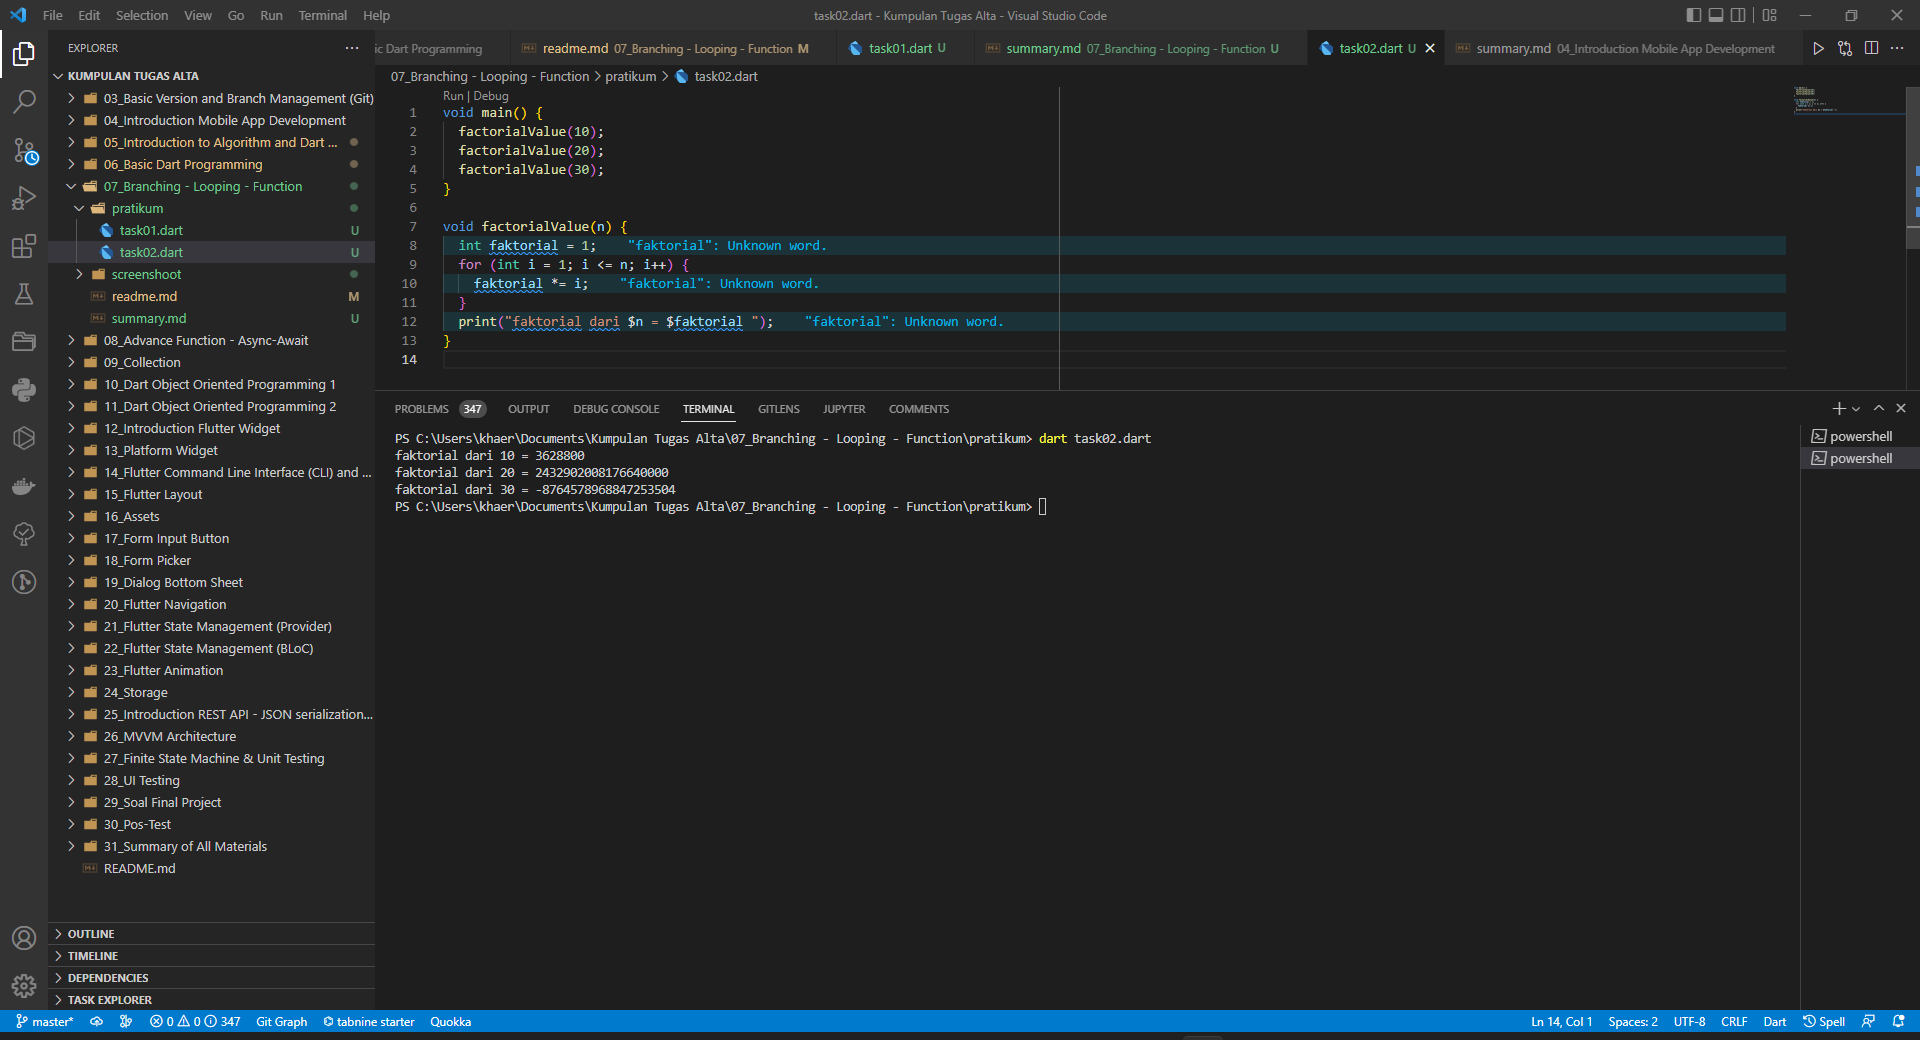
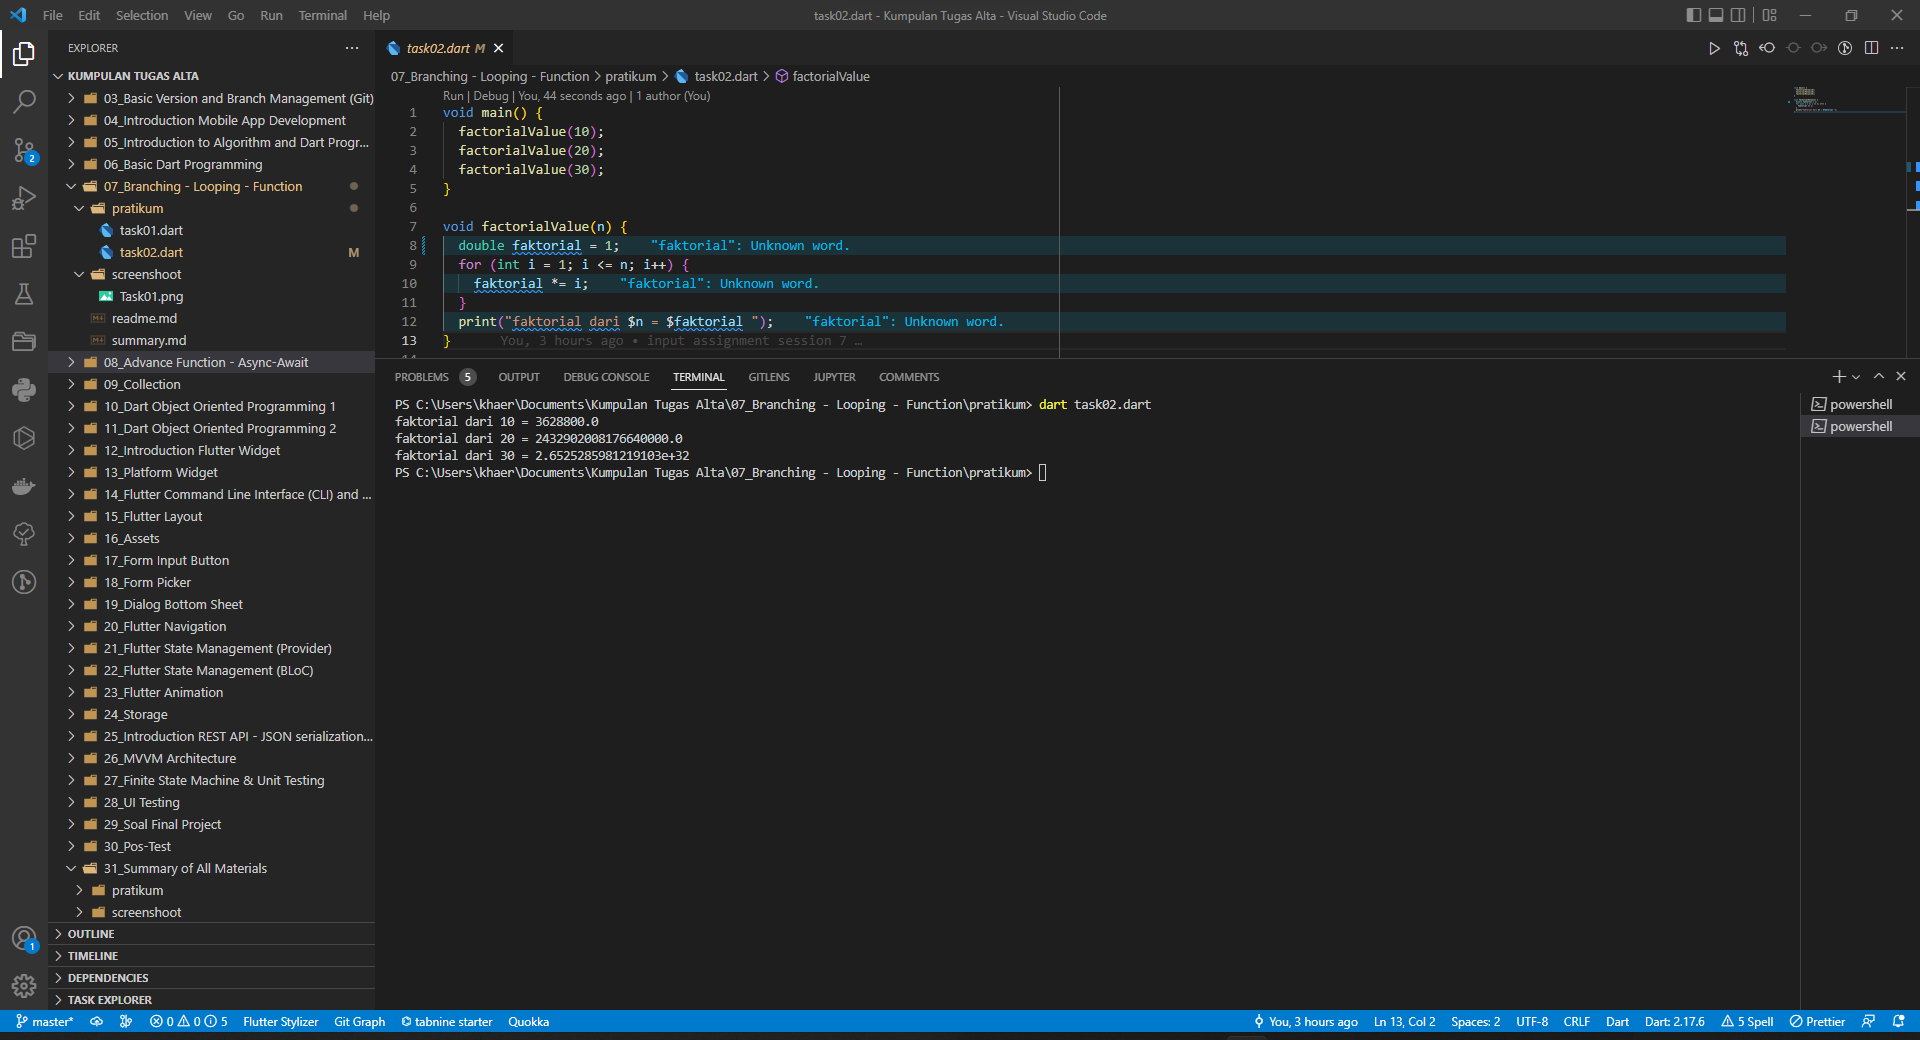
input assignment session 7

diff --git a/07_Branching - Looping - Function/pratikum/task02.dart b/07_Branching - Looping - Function/pratikum/task02.dart
@@ -5,7 +5,7 @@ void main() {
 }
 
 void factorialValue(n) {
-  int faktorial = 1;
+  double faktorial = 1;
   for (int i = 1; i <= n; i++) {
     faktorial *= i;
   }
